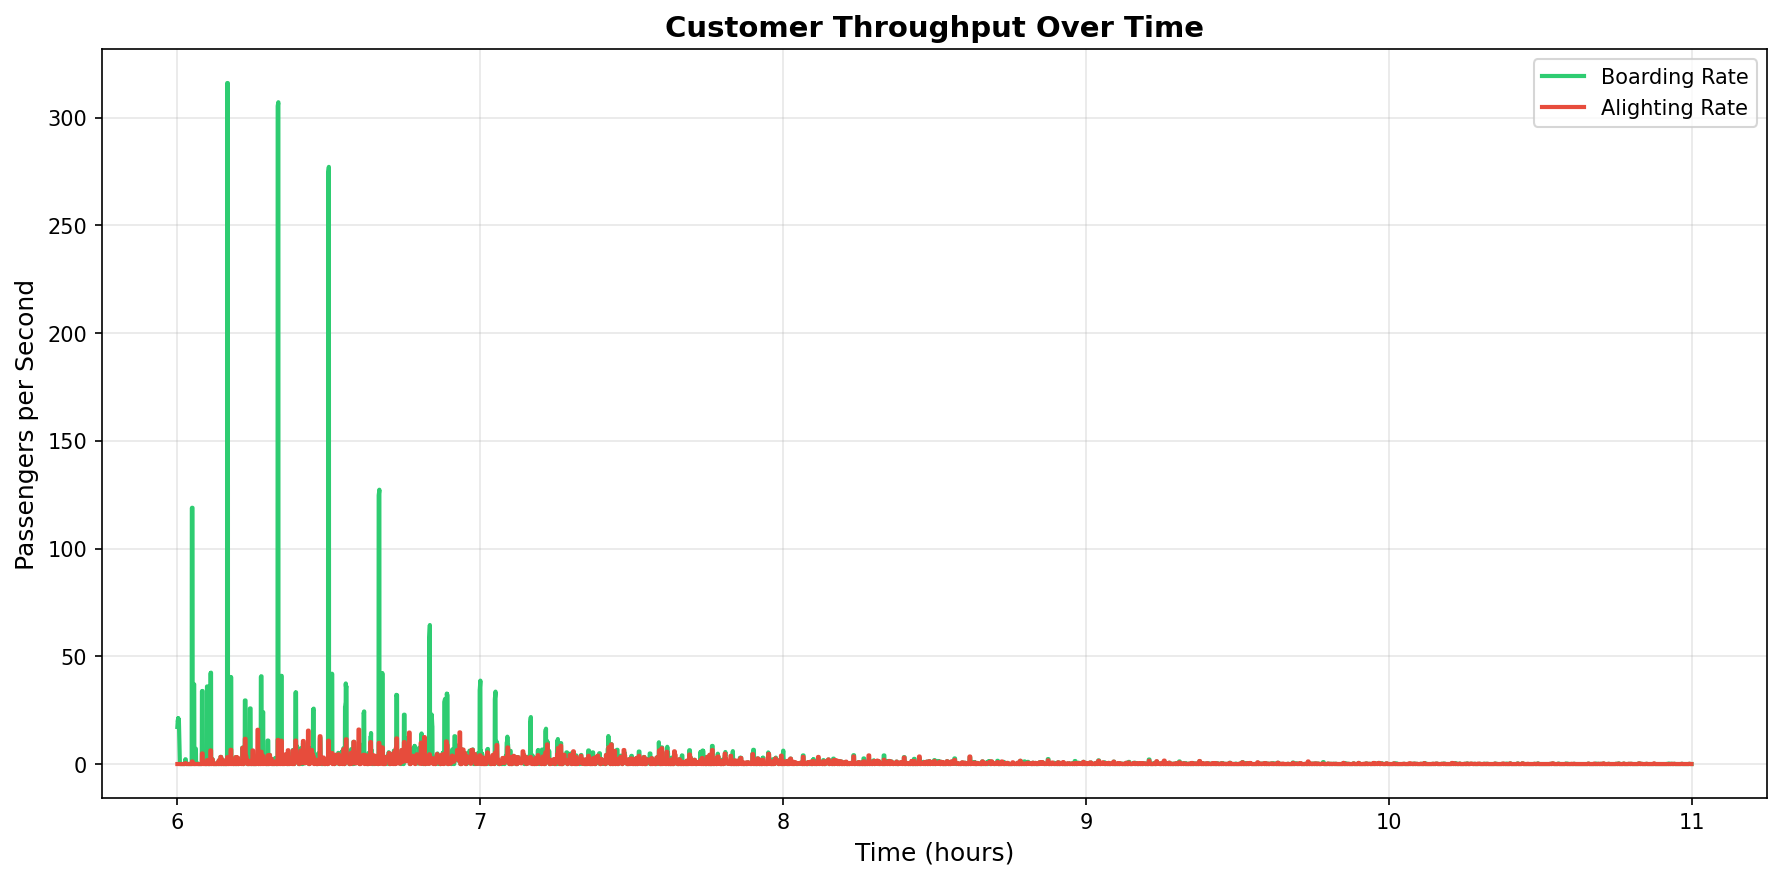
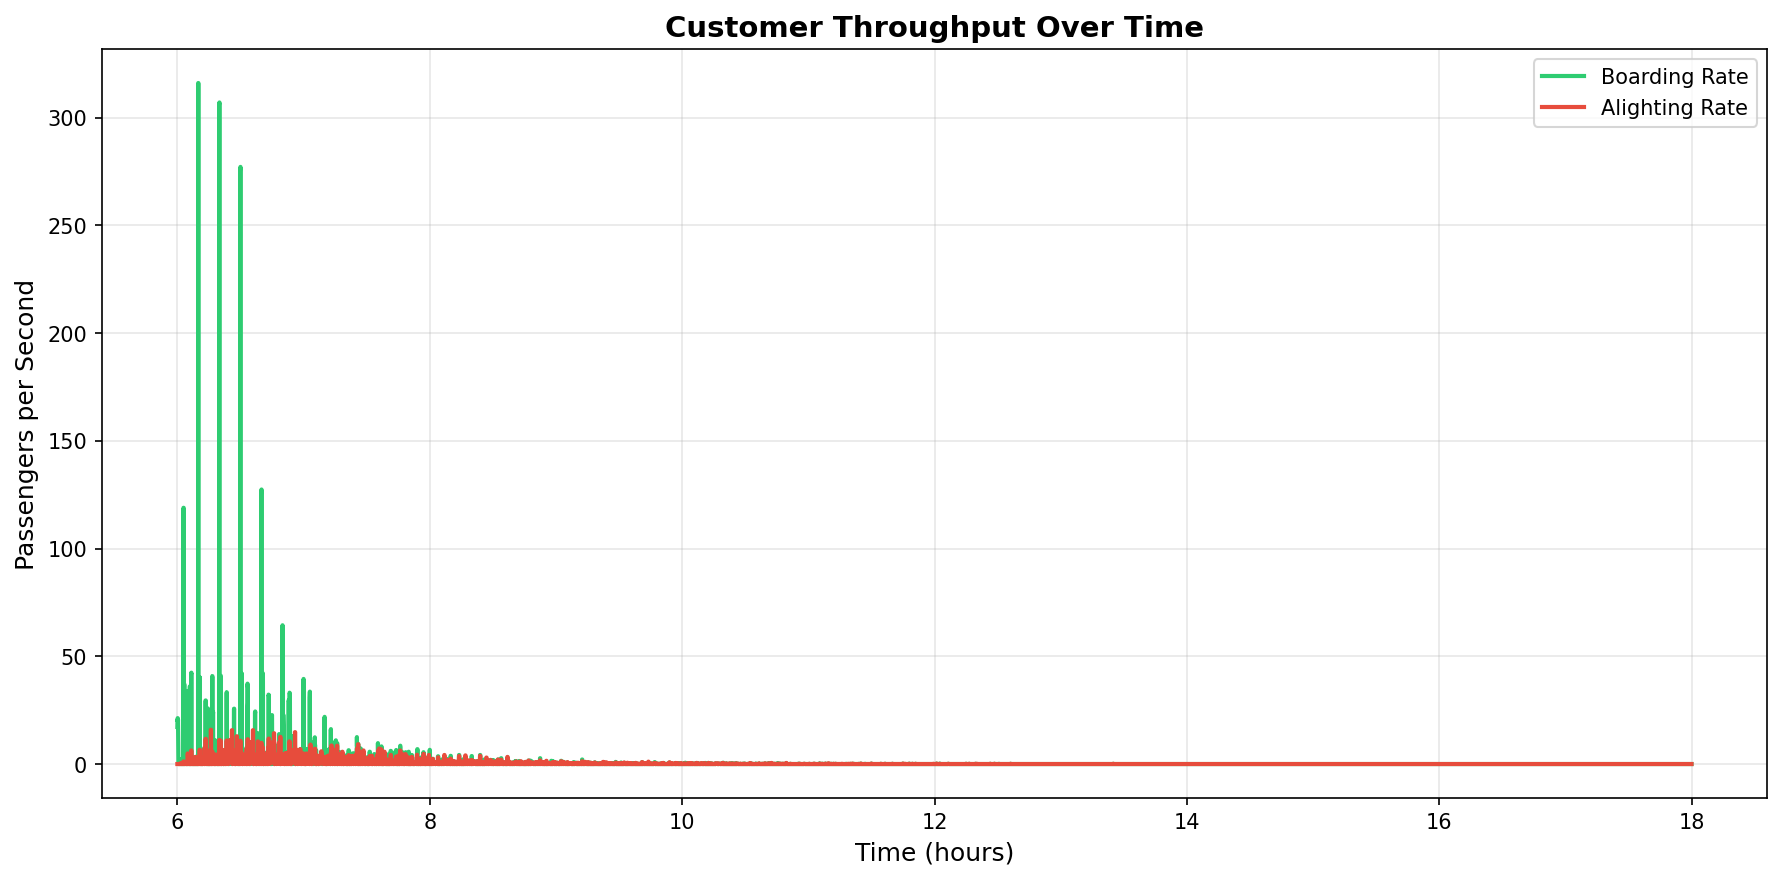
visualizations for 10 hours

diff --git a/rail_sim/memory.py b/rail_sim/memory.py
@@ -113,6 +113,56 @@ class MemmapAllocator:
         cid = self.next_id
         self.next_id += 1
         return cid
+    
+    def defragment(self, threshold: float = 0.5) -> int:
+        """
+        Compact memory when fragmentation exceeds threshold
+        
+        Args:
+            threshold: Defragment if fragmentation ratio exceeds this (0.0 to 1.0)
+            
+        Returns:
+            Number of records compacted
+        """
+        active_count = np.sum(self.memmap['id'] > 0)
+        fragmentation = 1 - (active_count / self.capacity)
+        
+        if fragmentation < threshold:
+            logger.debug(f"Fragmentation {fragmentation:.2%} below threshold {threshold:.2%}, skipping defrag")
+            return 0
+        
+        logger.info(f"Defragmenting memmap: {active_count} active / {self.capacity} capacity ({fragmentation:.2%} fragmented)")
+        
+        # Find all active records
+        active_mask = self.memmap['id'] > 0
+        active_data = self.memmap[active_mask].copy()
+        
+        # Clear entire memmap
+        self.memmap[:] = 0
+        
+        # Write active records to start
+        self.memmap[:len(active_data)] = active_data
+        
+        # Rebuild free stack with all indices after active data
+        self.free_stack = list(range(len(active_data), self.capacity))
+        self._next_scan_idx = len(active_data)
+        
+        logger.info(f"Defragmentation complete: compacted {len(active_data)} records, {len(self.free_stack)} free slots")
+        
+        return len(active_data)
+    
+    def trim_capacity(self, target_capacity: Optional[int] = None) -> int:
+        """
+        Reduce memmap capacity to save memory (cannot be used with file-backed memmap)
+        
+        Args:
+            target_capacity: New capacity (default: current active + 20% headroom)
+            
+        Returns:
+            New capacity
+        """
+        logger.error("trim_capacity not supported for file-backed memmap - use MemoryAllocator instead")
+        raise NotImplementedError("Cannot trim file-backed memmap")
 
 
 class MemoryAllocator:
@@ -206,4 +256,90 @@ class MemoryAllocator:
         self.memmap = new_array
         
         logger.info(f"Successfully grew array to {self.capacity}")
+    
+    def defragment(self, threshold: float = 0.5) -> int:
+        """
+        Compact memory when fragmentation exceeds threshold
+        
+        Args:
+            threshold: Defragment if fragmentation ratio exceeds this (0.0 to 1.0)
+            
+        Returns:
+            Number of records compacted
+        """
+        active_count = np.sum(self.memmap['id'] > 0)
+        fragmentation = 1 - (active_count / self.capacity)
+        
+        if fragmentation < threshold:
+            logger.debug(f"Fragmentation {fragmentation:.2%} below threshold {threshold:.2%}, skipping defrag")
+            return 0
+        
+        logger.info(f"Defragmenting array: {active_count} active / {self.capacity} capacity ({fragmentation:.2%} fragmented)")
+        
+        # Find all active records
+        active_mask = self.memmap['id'] > 0
+        active_data = self.memmap[active_mask].copy()
+        
+        # Clear entire array
+        self.memmap[:] = 0
+        
+        # Write active records to start
+        self.memmap[:len(active_data)] = active_data
+        
+        # Rebuild free stack with all indices after active data
+        self.free_stack = list(range(len(active_data), self.capacity))
+        self._next_scan_idx = len(active_data)
+        
+        logger.info(f"Defragmentation complete: compacted {len(active_data)} records, {len(self.free_stack)} free slots")
+        
+        return len(active_data)
+    
+    def trim_capacity(self, target_capacity: Optional[int] = None) -> int:
+        """
+        Reduce array capacity to save memory
+        
+        Args:
+            target_capacity: New capacity (default: current active + 20% headroom)
+            
+        Returns:
+            New capacity
+        """
+        active_count = np.sum(self.memmap['id'] > 0)
+        
+        if target_capacity is None:
+            # Default: active + 20% headroom, minimum 10000
+            target_capacity = max(int(active_count * 1.2), 10_000)
+        
+        if target_capacity < active_count:
+            logger.error(f"Cannot trim to {target_capacity}: would lose {active_count - target_capacity} active records")
+            raise ValueError(f"Target capacity {target_capacity} < active count {active_count}")
+        
+        if target_capacity >= self.capacity:
+            logger.debug(f"Target capacity {target_capacity} >= current {self.capacity}, skipping trim")
+            return self.capacity
+        
+        logger.info(f"Trimming array from {self.capacity} to {target_capacity} ({active_count} active records)")
+        
+        # Create new smaller array
+        new_array = np.zeros(target_capacity, dtype=CUSTOMER_DTYPE)
+        
+        # Copy active data (should be compacted at start after defrag)
+        active_mask = self.memmap['id'] > 0
+        active_indices = np.where(active_mask)[0]
+        
+        if len(active_indices) > 0:
+            # Copy all active records
+            new_array[:active_count] = self.memmap[active_mask]
+        
+        # Replace old array
+        self.memmap = new_array
+        self.capacity = target_capacity
+        
+        # Rebuild free stack
+        self.free_stack = list(range(active_count, target_capacity))
+        self._next_scan_idx = active_count
+        
+        logger.info(f"Trim complete: new capacity {self.capacity}, {len(self.free_stack)} free slots")
+        
+        return self.capacity
     

diff --git a/rail_sim/simulation.py b/rail_sim/simulation.py
@@ -31,7 +31,10 @@ class SimulationLoop:
 		snapshot_interval: int = 3600,  # snapshots every hour
 		log_level = logging.INFO,
 		train_dedup: Literal["disabled", "warning", "enabled"] = "disabled",
-		min_headway: float = 60.0  # minimum seconds between trains at same station
+		min_headway: float = 60.0,  # minimum seconds between trains at same station
+		defrag_interval: int = 10_000,  # defragment memory every N ticks
+		defrag_threshold: float = 0.7,  # defragment if fragmentation exceeds this ratio
+		show_stats: bool = False
 	):
 		self.allocator = memmap_allocator
 		self.map = map_network
@@ -39,10 +42,12 @@ class SimulationLoop:
 		self.snapshot_interval = snapshot_interval
 		self.train_dedup = train_dedup
 		self.min_headway = min_headway
+		self.defrag_interval = defrag_interval
+		self.defrag_threshold = defrag_threshold
 		
 		self.current_tick = 0
 		self.current_time = 0.0
-		
+		self.show_stats = show_stats
 		self.active_trains: List[Train] = []
 		self.customer_generators: List[CustomerGenerator] = []
 		self.event_queue: List = []
@@ -346,7 +351,22 @@ class SimulationLoop:
 			logger.info(f"Taking snapshot at tick {self.current_tick}")
 			self.snapshot()
 		
-		# 8. Process events (disruptions, etc.)
+		# 8. Defragment memory if needed
+		if self.defrag_interval > 0 and self.current_tick % self.defrag_interval == 0:
+			logger.info(f"Checking memory fragmentation at tick {self.current_tick}")
+			compacted = self.allocator.defragment(threshold=self.defrag_threshold)
+			if compacted > 0:
+				logger.info(f"Defragmented memory: {compacted} active records")
+				
+				# Optionally trim capacity for MemoryAllocator
+				if hasattr(self.allocator, 'trim_capacity'):
+					try:
+						new_capacity = self.allocator.trim_capacity()
+						logger.info(f"Trimmed capacity to {new_capacity}")
+					except Exception as e:
+						logger.warning(f"Failed to trim capacity: {e}")
+		
+		# 9. Process events (disruptions, etc.)
 		self.process_events()
 	
 	def process_events(self):
@@ -481,13 +501,14 @@ class SimulationLoop:
 		# --- Advanced Statistics using stats.utils.py ---
 
 		# Example: Analyze average wait times
-		wait_times = col(metrics, "avg_wait_time")
-		print("\n[Advanced Stats] MLE and Bootstrap for Average Wait Time:")
-		mle = MLEEstimator(wait_times)
-		fit = mle.fit_normal()
-		print(f"Normal Fit: mean={fit['mu']:.3f}, std={fit['std']:.3f}")
-		mle.plot_fit('normal')
+		if self.show_stats:
+			wait_times = col(metrics, "avg_wait_time")
+			print("\n[Advanced Stats] MLE and Bootstrap for Average Wait Time:")
+			mle = MLEEstimator(wait_times)
+			fit = mle.fit_normal()
+			print(f"Normal Fit: mean={fit['mu']:.3f}, std={fit['std']:.3f}")
+			mle.plot_fit('normal')
 
-		boot = BootstrapSampler(wait_times)
-		boot_means = boot.sample(n_samples=1000, stat_func=np.mean)
-		print(f"Bootstrap mean (95% CI): {np.percentile(boot_means, 2.5):.3f} - {np.percentile(boot_means, 97.5):.3f}")
+			boot = BootstrapSampler(wait_times)
+			boot_means = boot.sample(n_samples=1000, stat_func=np.mean)
+			print(f"Bootstrap mean (95% CI): {np.percentile(boot_means, 2.5):.3f} - {np.percentile(boot_means, 97.5):.3f}")

diff --git a/examples/visualize_sydney.py b/examples/visualize_sydney.py
@@ -115,7 +115,7 @@ def main():
     print(f"Visualization enabled - capturing {capture_rate} snapshots per second\n")
     
     # 6. Run simulation
-    n_ticks = 3600*5  # Run for 1 hour (3600 seconds)
+    n_ticks = 3600*12  # Run for 1 hour (3600 seconds)
     print(f"Running simulation for {n_ticks} ticks ({n_ticks/3600:.1f} hours)...")
     sim.run(n_ticks=n_ticks)
     
@@ -137,7 +137,7 @@ def main():
     )
     
     # 8. Render video
-    output_path = Path(__file__).parent / "sydney_visualization.mp4"
+    output_path = Path(__file__).parent / "video.mp4"
     print(f"Rendering video to {output_path} at {video_fps} fps...")
     print("This may take a few minutes depending on the number of frames...\n")
     
